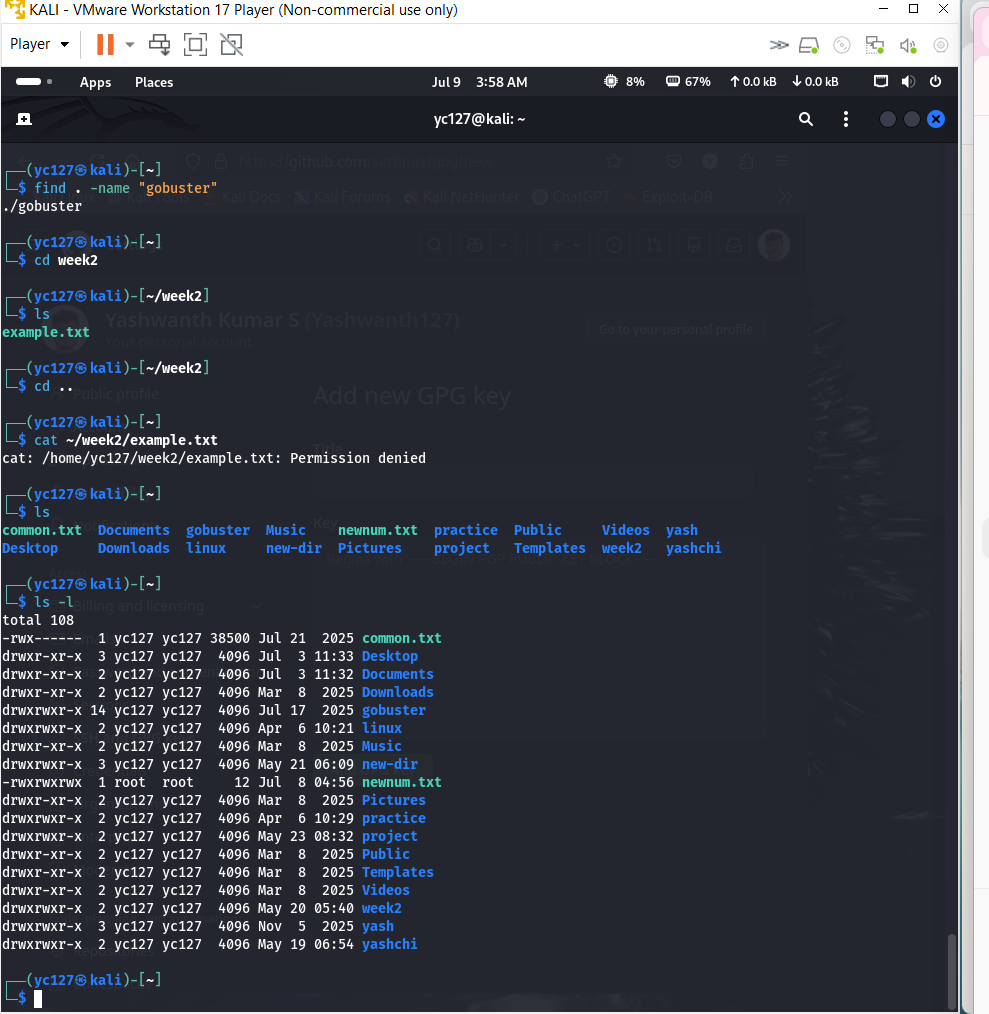
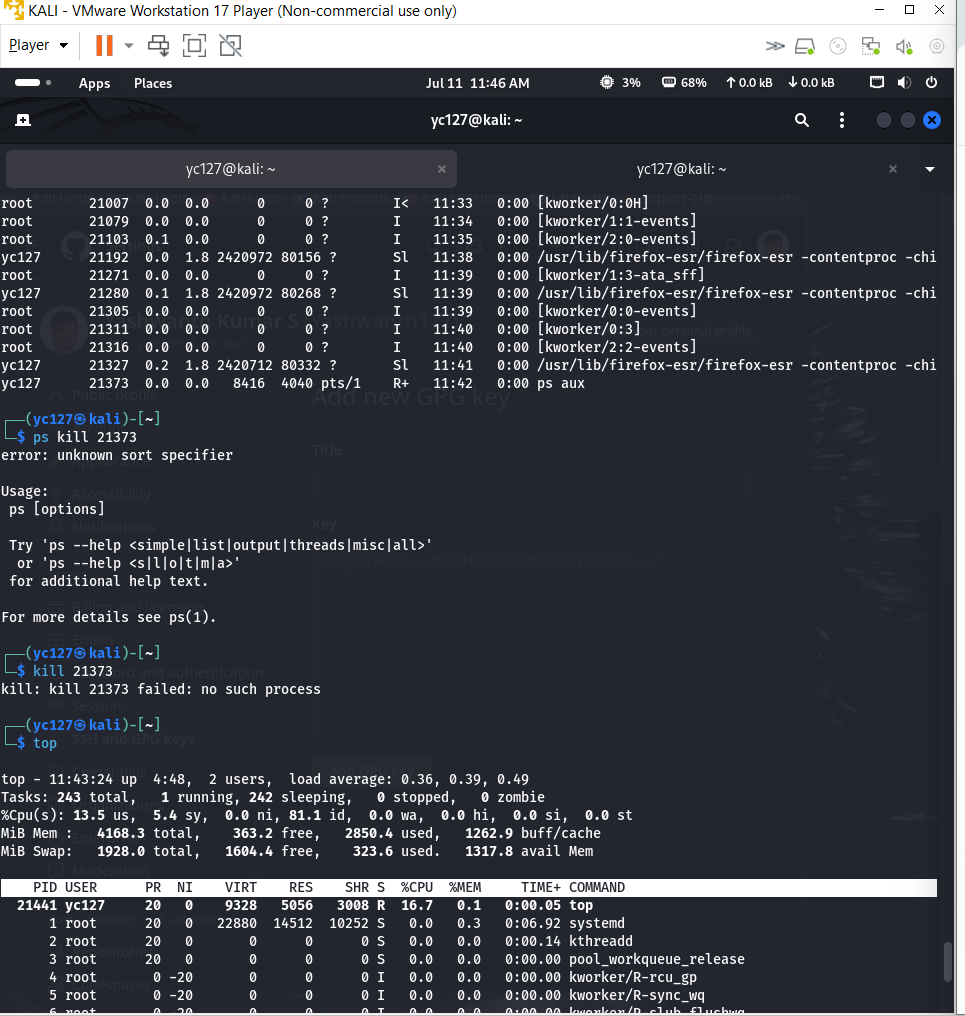
Added Linux revision session 04 with process management practice

diff --git a/Daily_Revision/Revision-04.md b/Daily_Revision/Revision-04.md
@@ -1,0 +1,32 @@
+
+## Topics Practiced
+
+- Process management
+- Process monitoring
+- Foreground and background jobs
+- Process priority
+- Linux process commands
+
+## Commands Practiced
+
+- ps
+- ps aux
+- top
+- jobs
+- bg
+- fg
+- nice
+- renice
+- nohup
+
+## What I Learned
+
+- Learned how to view running processes.
+- Practiced working with foreground and background jobs.
+- Understood how to change process priority using `nice` and `renice`.
+- Learned how `nohup` keeps a process running after logging out.
+- Revised basic Linux process management commands.
+
+## Status
+
+Completed a 30-minute Linux revision session by practicing process management and understanding how Linux handles running processes.
